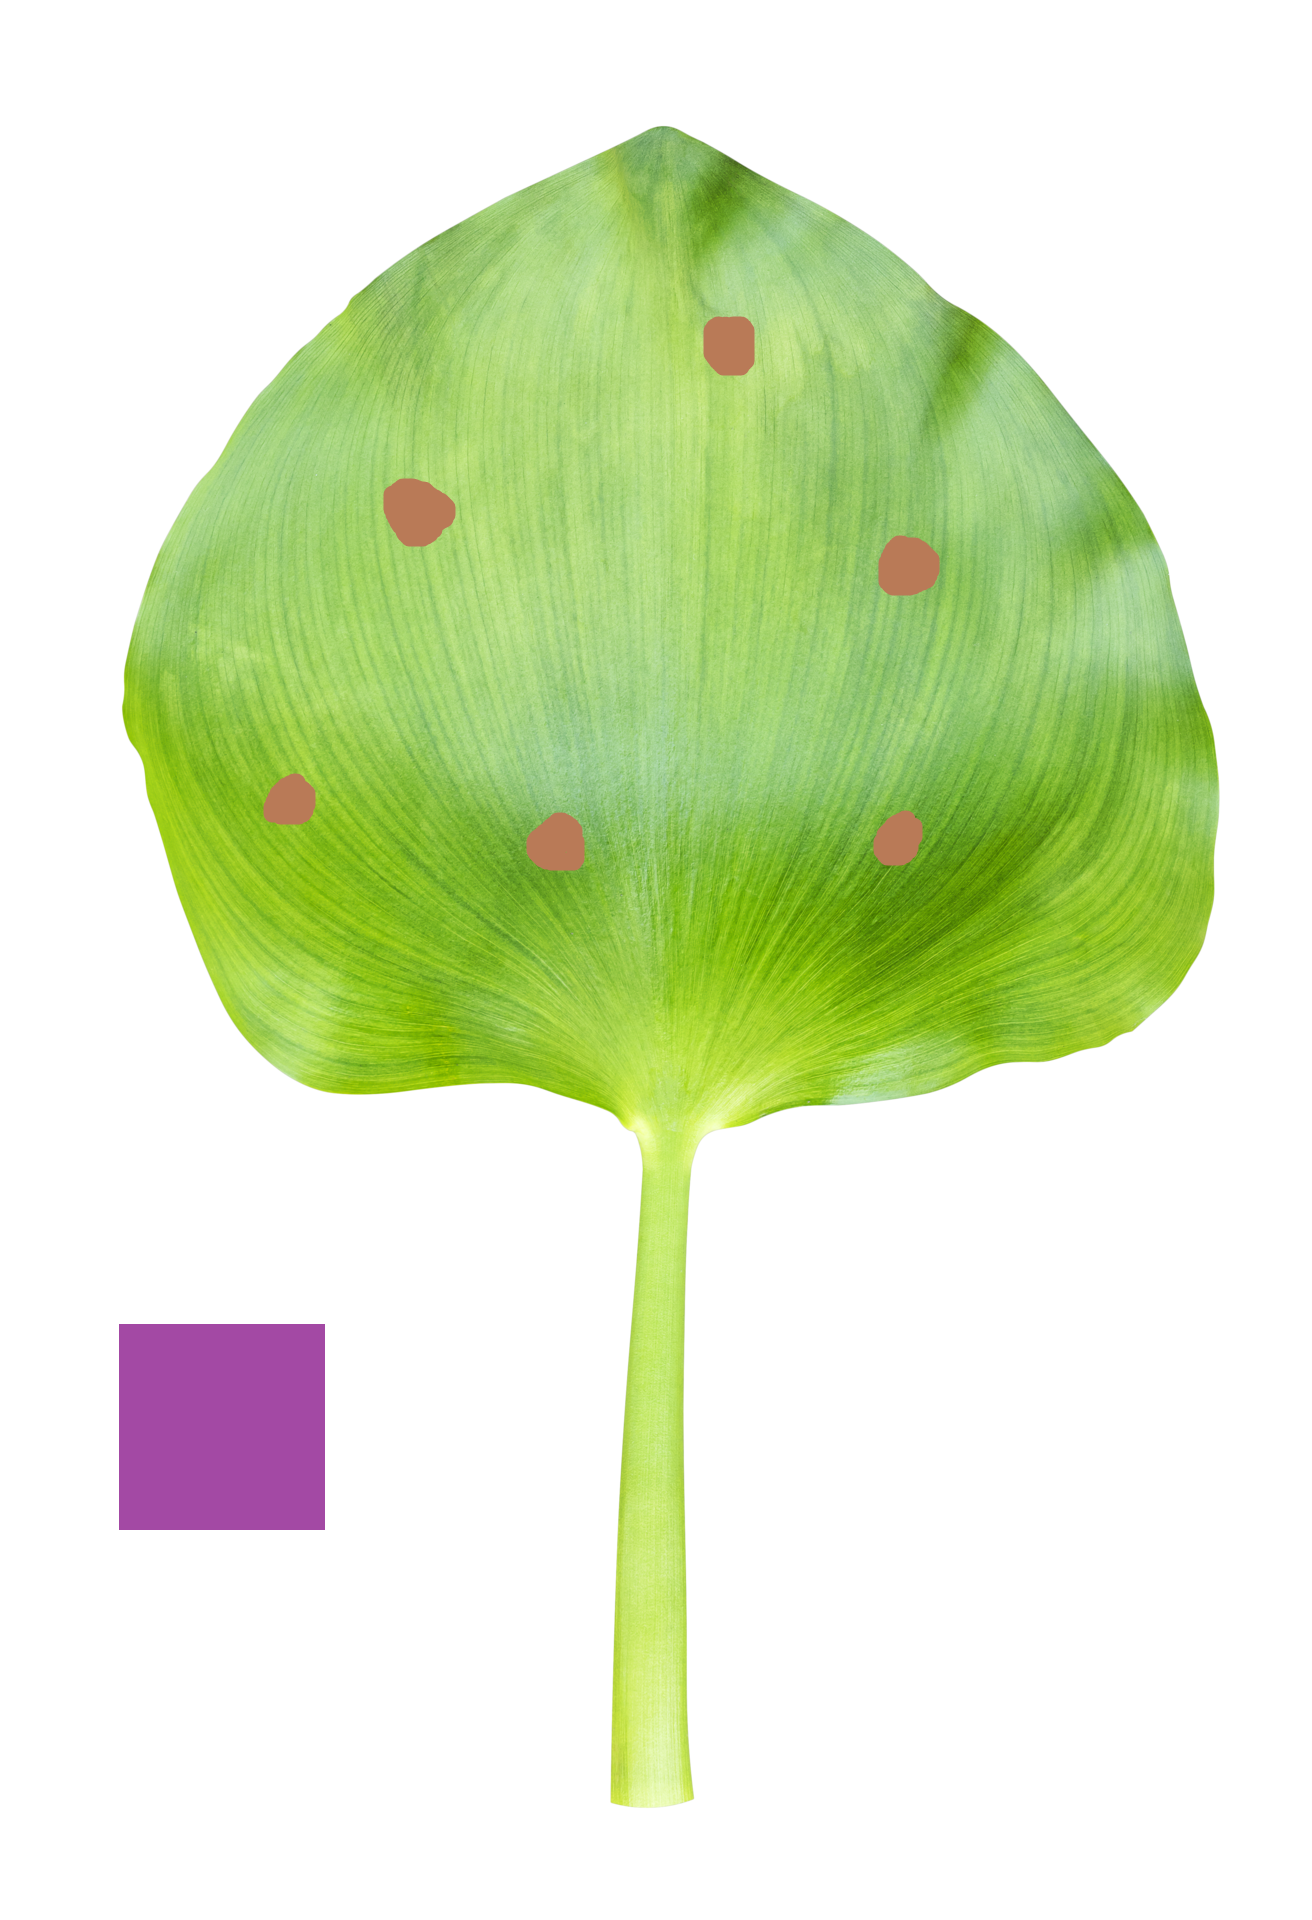
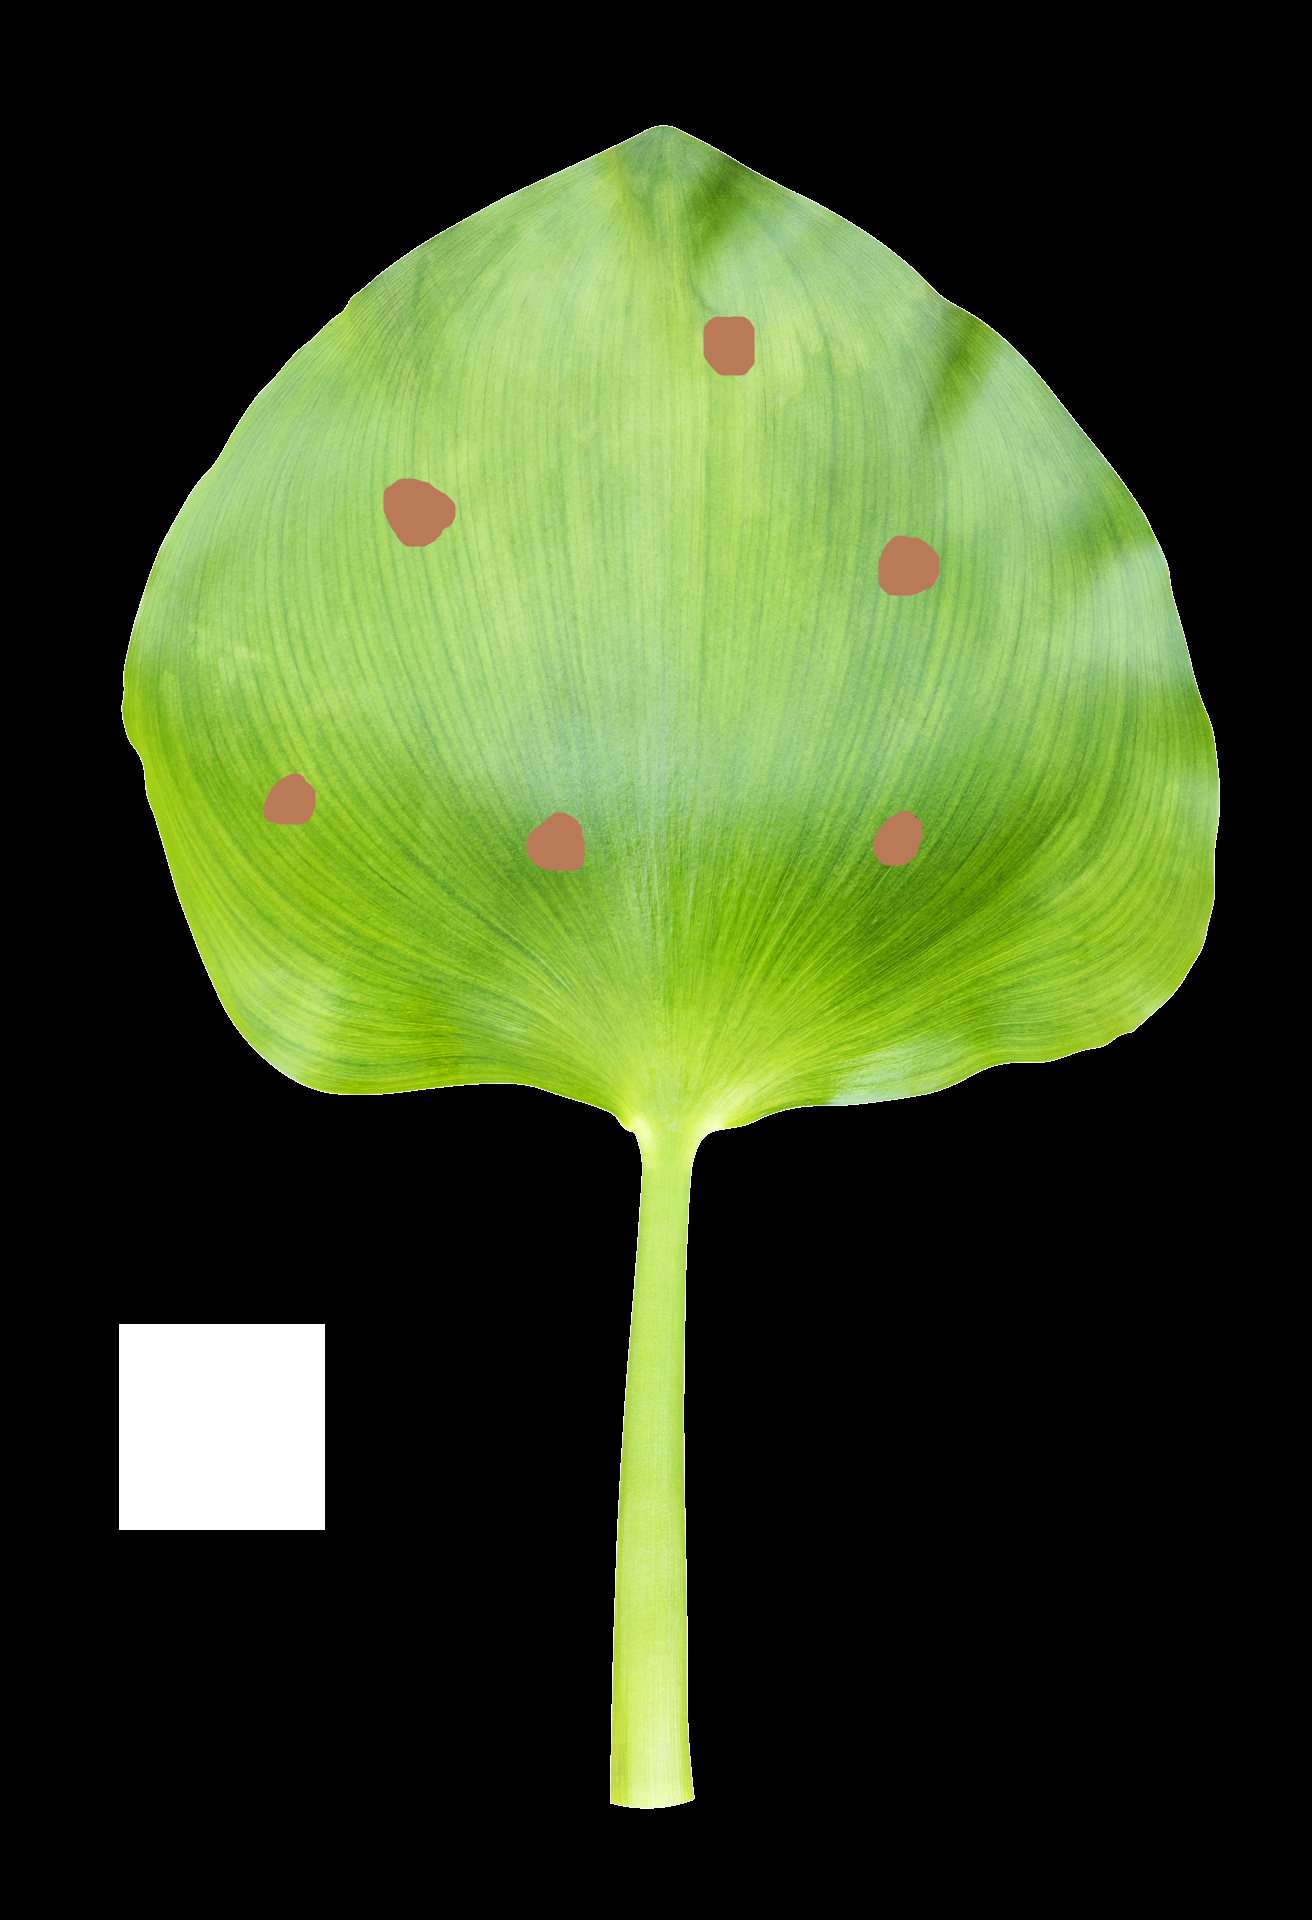
Changed some of the images and added content to the README.md
Changed some of the image's backgrounds to black and the calibration cube to white.

diff --git a/Individual_Code/Henry Roux/README.md b/Individual_Code/Henry Roux/README.md
@@ -1,0 +1,3 @@
+This folder contains work done to identify the outline / contours of the leaf. The function used to perform this is found in the Jupyter notebook called "Leaf Outline.ipynb". The other Jupyter notebooks was used for testing.
+
+The folder "Sample Data" contains different images of leaf, some with calibration cubes.
